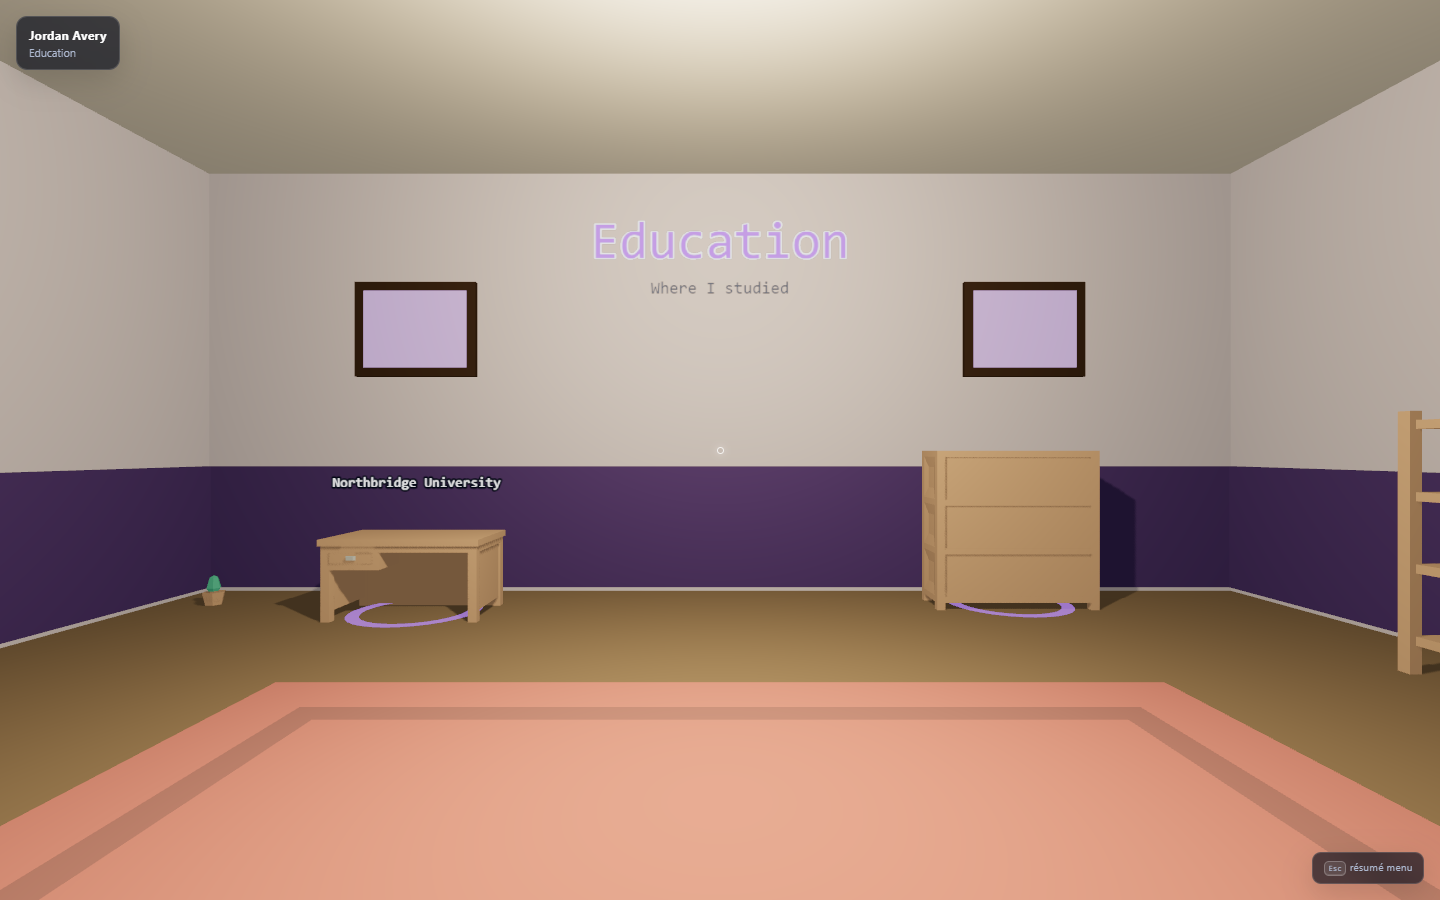
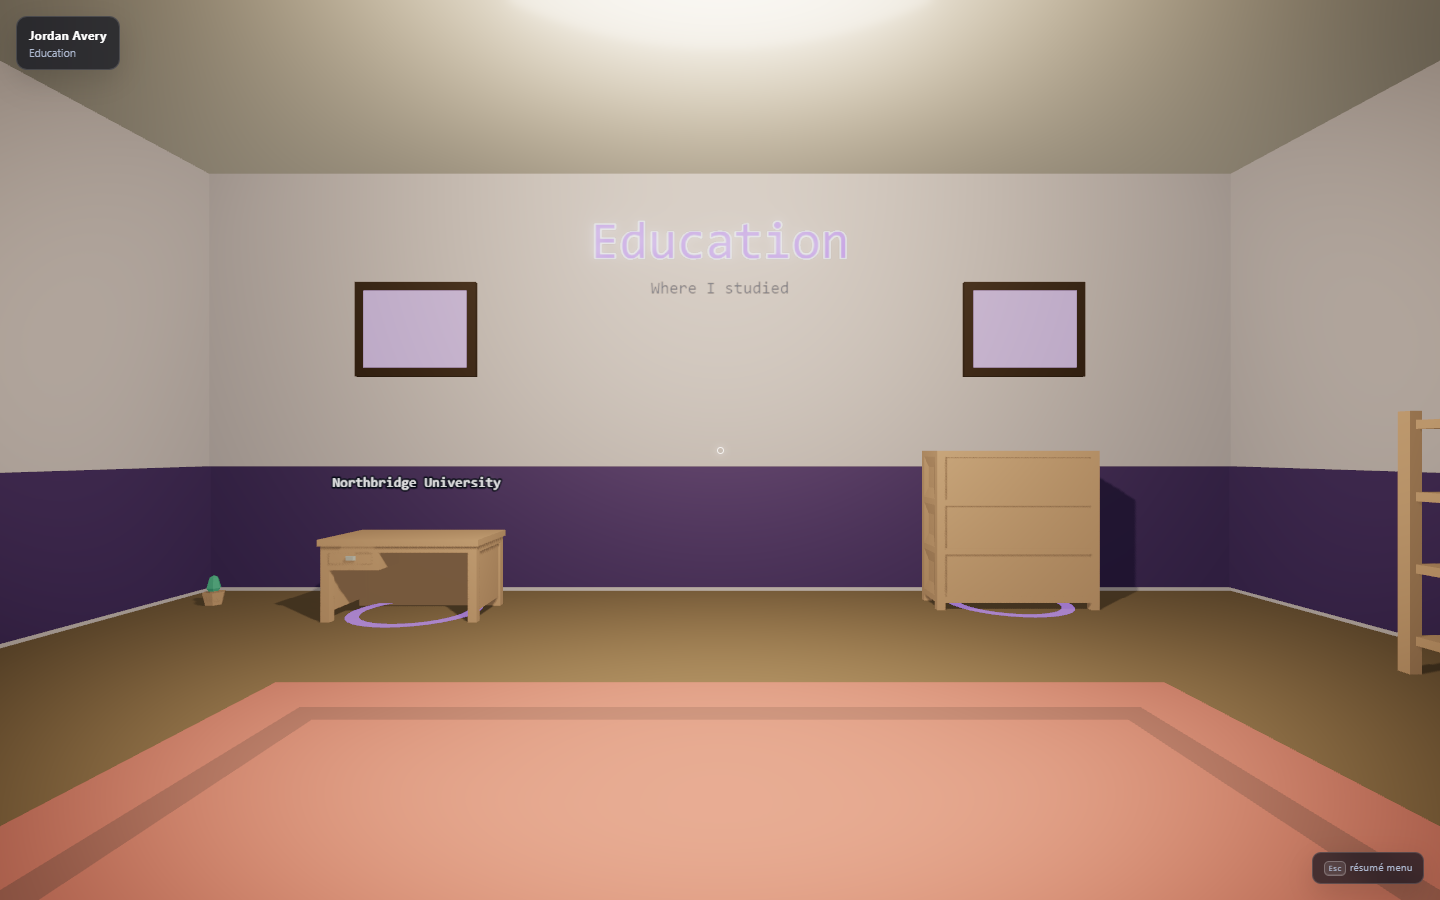
Phase 4: TSL post-processing (bloom + vignette) for WebGPU
Replace the removed @react-three/postprocessing EffectComposer with a
three.js RenderPipeline: pass() -> bloom() (added to scene color) -> TSL
vignette, driven from a priority-1 useFrame. Verified on WebGPU: lamps and
emissive props bloom, corners vignette, 0 console errors.

diff --git a/src/components/Post.tsx b/src/components/Post.tsx
@@ -1,0 +1,46 @@
+import { useMemo } from "react";
+import { useFrame, useThree } from "@react-three/fiber";
+import * as THREE from "three/webgpu";
+import { pass, screenUV, vec2, smoothstep } from "three/tsl";
+import { bloom } from "three/addons/tsl/display/BloomNode.js";
+
+// Post-processing for WebGPURenderer: a TSL RenderPipeline replacing the old
+// @react-three/postprocessing EffectComposer (bloom + vignette), which only
+// runs under WebGLRenderer. bloom() returns just the glow, so it is added back
+// to the scene color; the vignette multiplies the result before the pipeline's
+// tone-map + sRGB output transform.
+const BLOOM_STRENGTH = 0.7;
+const BLOOM_RADIUS = 0.5;
+const BLOOM_THRESHOLD = 0.72;
+const VIGNETTE_DARKNESS = 0.48;
+
+export default function Post() {
+  const gl = useThree((s) => s.gl);
+  const scene = useThree((s) => s.scene);
+  const camera = useThree((s) => s.camera);
+
+  const pipeline = useMemo(() => {
+    const renderer = gl as unknown as THREE.WebGPURenderer;
+    const renderPipeline = new THREE.RenderPipeline(renderer);
+
+    const scenePass = pass(scene, camera);
+    const scenePassColor = scenePass.getTextureNode("output");
+    const bloomed = scenePassColor.add(
+      bloom(scenePassColor, BLOOM_STRENGTH, BLOOM_RADIUS, BLOOM_THRESHOLD)
+    );
+
+    // soft corner darkening (offset 0.4, reaching VIGNETTE_DARKNESS at the edge)
+    const dist = screenUV.distance(vec2(0.5));
+    const vignette = smoothstep(0.4, 0.75, dist).mul(VIGNETTE_DARKNESS);
+
+    renderPipeline.outputNode = bloomed.mul(vignette.oneMinus());
+    return renderPipeline;
+  }, [gl, scene, camera]);
+
+  // positive priority: the Canvas stops auto-rendering and we drive the pipeline
+  useFrame(() => {
+    pipeline.render();
+  }, 1);
+
+  return null;
+}

diff --git a/src/App.tsx b/src/App.tsx
@@ -3,6 +3,7 @@ import { Canvas, extend } from "@react-three/fiber";
 import { useProgress } from "@react-three/drei";
 import * as THREE from "three/webgpu";
 import Scene from "./components/Scene";
+import Post from "./components/Post";
 import HUD from "./components/HUD";
 import SectionPanel from "./components/SectionPanel";
 import "./App.css";
@@ -57,8 +58,7 @@ function App() {
       >
         <Suspense fallback={null}>
           <Scene />
-          {/* Post-processing (bloom + vignette) is reintroduced in Phase 4 as a
-              TSL PostProcessing node pipeline once the renderer is WebGPU. */}
+          <Post />
         </Suspense>
       </Canvas>
       <LoadingStatus />
